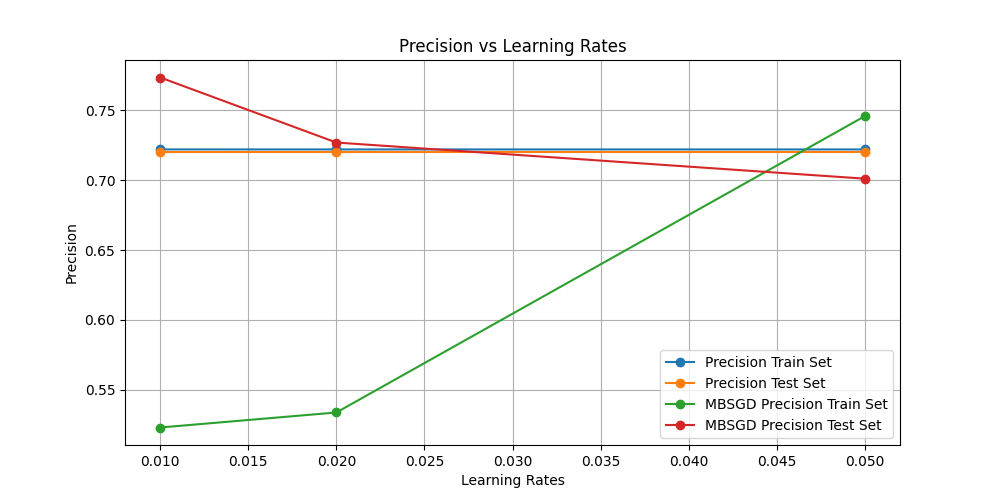
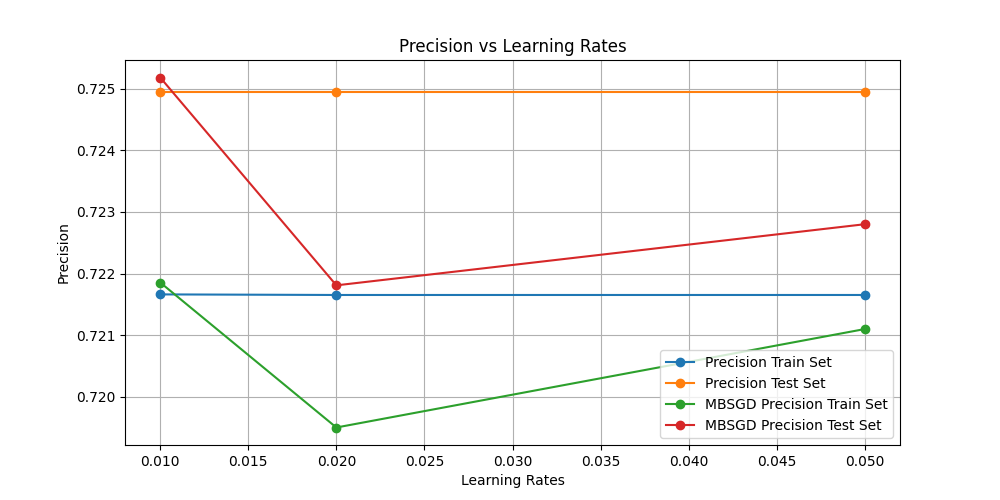
Minor fix on the plotting function with all plot generated pro

diff --git a/InfraredThermographyTemperature/PrepareDataset.py b/InfraredThermographyTemperature/PrepareDataset.py
@@ -175,8 +175,7 @@ def linear_regression_test_growing_subset(
 
         minibatch = MiniBatchStochasticLinearRegression()
         mini_mse_train, mini_mse_test, mini_r2_train, mini_r2_test, mini_evs_train, mini_evs_test = evaluate_model(
-            minibatch, x_train_subset, y_train_subset, x_test_scaled, y_test
-        )
+            minibatch, x_train_subset, y_train_subset, x_test_scaled, y_test)
 
         results["mini_mse_train"].append(mini_mse_train)
         results["mini_mse_test"].append(mini_mse_test)
@@ -205,7 +204,7 @@ def mbsgd_test_batch_sizes(
 
     # Train models with different batch sizes and record training loss over iterations
     for batch_size in batch_sizes:
-        model = MiniBatchStochasticLinearRegression(learning_rate=0.01, batch_size=batch_size, epoch=100)
+        model = MiniBatchStochasticLinearRegression(learning_rate=0.1, batch_size=batch_size, epoch=100)
         losses, r2s = model.fit(x_train_scaled, y_train)
         losses_by_batch_size[batch_size] = losses
         r2s_by_batch_size[batch_size] = r2s
@@ -242,7 +241,7 @@ def linear_regression_learning_rate_test(
         "mini_r2_train": [],
         "mini_r2_test": [],
     }
-    learning_rates = [0.001, 0.005, 0.01, 0.05]
+    learning_rates = [0.005, 0.01, 0.5]
     for lr in learning_rates:
 
         minibatch = MiniBatchStochasticLinearRegression(learning_rate=lr)
@@ -279,19 +278,19 @@ def main():
         "canthi4Max1",
         "T_FHRC1",
         "T_FHLC1",
-        # "T_FHBC1",
-        # "T_FHTC1",
-        # "T_OR1",
-        # "T_Max1",
-        # "T_FH_Max1",
-        # "T_FHC_Max1",
-        # "LCC1",
-        # "canthiMax1",
-        # "Max1R13_1",
-        # "aveAllL13_1",
-        # "T_RC1",
-        # "T_LC1",
-        # "RCC1",
+        "T_FHBC1",
+        "T_FHTC1",
+         "T_OR1",
+         "T_Max1",
+         "T_FH_Max1",
+         "T_FHC_Max1",
+         "LCC1",
+         "canthiMax1",
+         "Max1R13_1",
+         "aveAllL13_1",
+         "T_RC1",
+         "T_LC1",
+         "RCC1",
         "aveOralF"
     ]
     df.drop(columns_to_drop, axis=1, inplace=True)
@@ -306,13 +305,13 @@ def main():
         "Results",
         "Infrared_Thermography_Correlation_Matrix_After_Dropping_Values.png",
     )
-    # linear_regression_test_growing_subset(df)
+    linear_regression_test_growing_subset(df)
 
     plot_histogram_correlation(df)
 
-    mbsgd_test_batch_sizes(df)
+    #mbsgd_test_batch_sizes(df)
 
-    # linear_regression_learning_rate_test(df)
+    linear_regression_learning_rate_test(df)
     plot_variance_inflation_factor(df, "Diabetes_binary", "Results")
 
 

diff --git a/PlotHelpers.py b/PlotHelpers.py
@@ -387,18 +387,32 @@ def plot_batch_sizes_result(losses_by_batch_size, r2s_by_batch_size, log=0,
                             title2="Task3.4_linear_r2"):
     # Plotting the loss vs iterations for different batch sizes
     plt.figure(figsize=(10, 6))
+    if log == 0:
+        for batch_size, losses in losses_by_batch_size.items():
+            plt.plot(range(len(losses)), losses, label=f'Batch Size {batch_size}')
 
-    for batch_size, losses in losses_by_batch_size.items():
-        plt.plot(range(len(losses)), losses, label=f'Batch Size {batch_size}')
+        plt.xlabel('Iterations')
+        plt.ylabel('Training Loss')
+        plt.title('Linear Training Loss vs Number of Iterations for Different Batch Sizes')
+        plt.legend()
+        plt.yscale('log')
+        plt.grid(True)
+        plot_path = os.path.join(output_folder, f"{title1}.png")
+        plt.savefig(plot_path)
+        plt.close()
+    else:
+        for batch_size, losses in losses_by_batch_size.items():
+            plt.plot(range(len(losses)), losses, label=f'Batch Size {batch_size}')
 
-    plt.xlabel('Iterations')
-    plt.ylabel('Training Loss')
-    plt.title('Training Loss vs Number of Iterations for Different Batch Sizes')
-    plt.legend()
-    plt.grid(True)
-    plot_path = os.path.join(output_folder, f"{title1}.png")
-    plt.savefig(plot_path)
-    plt.close()
+        plt.xlabel('Iterations')
+        plt.ylabel('Training Loss')
+        plt.title('Logistic Training Loss vs Number of Iterations for Different Batch Sizes')
+        plt.legend()
+        plt.yscale('log')
+        plt.grid(True)
+        plot_path = os.path.join(output_folder, f"{title1}.png")
+        plt.savefig(plot_path)
+        plt.close()
 
     plt.figure(figsize=(10, 6))
     if log == 0:

diff --git a/DiabetesHealthIndicators/PrepareDataset.py b/DiabetesHealthIndicators/PrepareDataset.py
@@ -191,7 +191,8 @@ def mbsgd_test_batch_sizes(df, target_variable="Diabetes_binary"):
         df, target_variable, test_size=0.2, random_state=42
     )
     x_train_scaled, x_test_scaled = scale_data(x_train, x_test)
-    batch_sizes = [8, 16, 32, 64, 128, x_train_scaled.shape[0]]
+    batch_sizes = [8, 16, 32, 64, 128]
+    ''', x_train_scaled.shape[0]'''
 
     # Dictionary to store losses for different batch sizes
     losses_by_batch_size = {}
@@ -199,8 +200,8 @@ def mbsgd_test_batch_sizes(df, target_variable="Diabetes_binary"):
 
     # Train models with different batch sizes and record training loss over iterations
     for batch_size in batch_sizes:
-        model = MiniBatchLogisticRegression(batch_size=batch_size)
-        losses = model.fit(x_train_scaled, y_train)
+        model = MiniBatchLogisticRegression(batch_size=batch_size, learning_rate=0.003)
+        _, losses = model.fit(x_train_scaled, y_train)
         losses_by_batch_size[batch_size] = losses
     plot_batch_sizes_result(losses_by_batch_size, {}, 1, title1="Task3.4_logistic")
 
@@ -262,7 +263,7 @@ def logistic_regression_test_learning_rates(df, target_variable="Diabetes_binary
             mini_pre_test,
             mini_rec_train,
             mini_rec_test,
-        ) = evaluate_model(minibatch, x_train, y_train, x_test_scaled, y_test)
+        ) = evaluate_model(minibatch, x_train_scaled, y_train, x_test_scaled, y_test)
 
         results["mini_acc_train"].append(mini_acc_train)
         results["mini_acc_test"].append(mini_acc_test)

diff --git a/InfraredThermographyTemperature/MiniBatchStochasticLinearRegression.py b/InfraredThermographyTemperature/MiniBatchStochasticLinearRegression.py
@@ -11,7 +11,7 @@ class MiniBatchStochasticLinearRegression:
 
     def __init__(
         self,
-        learning_rate=0.001,
+        learning_rate=0.01,
         max_iter=1000,
         batch_size=32,
         epsilon=1e-6,
